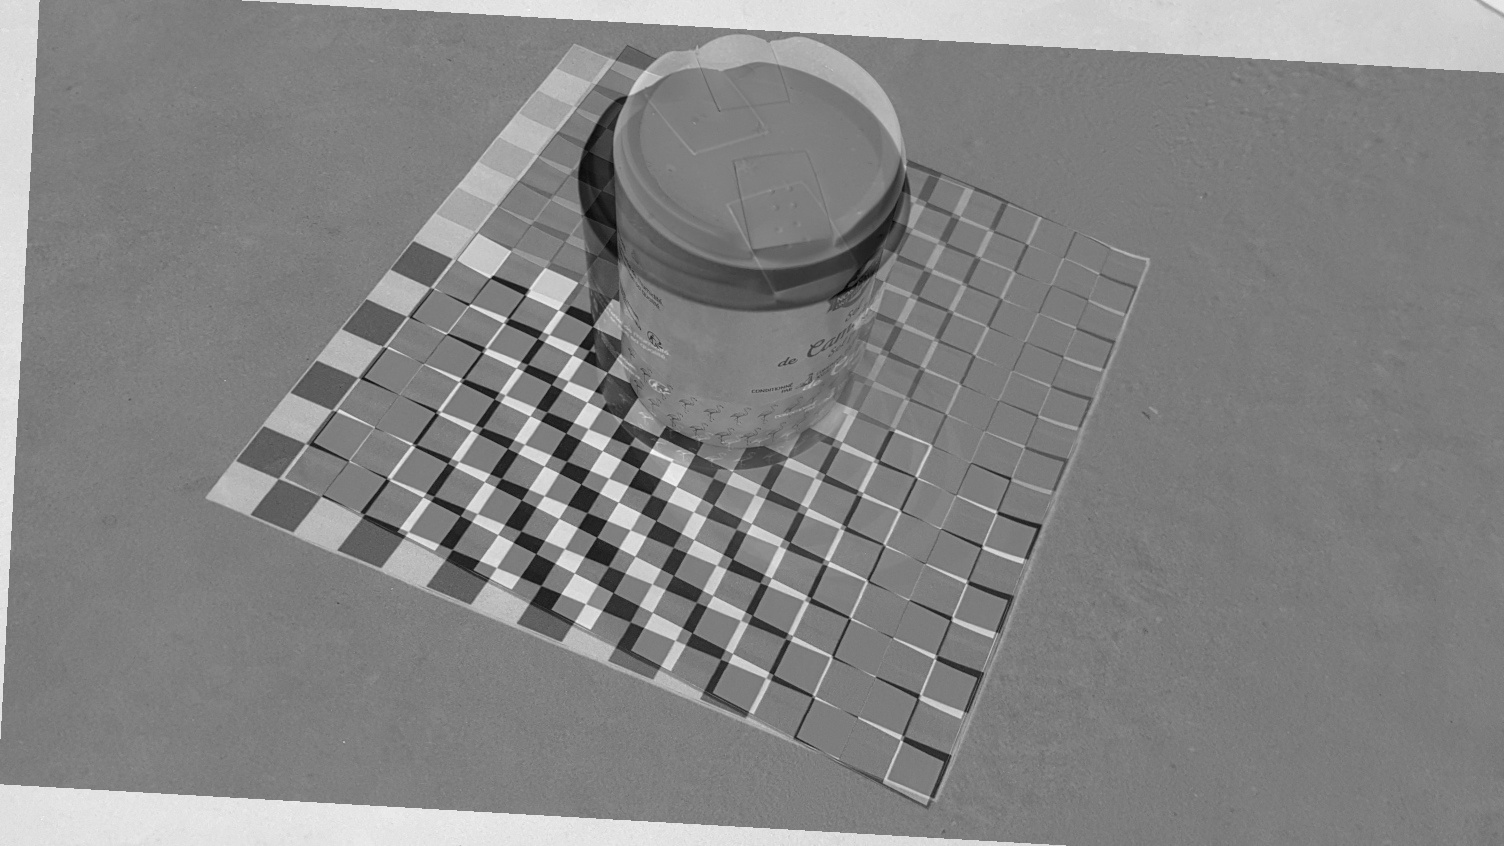
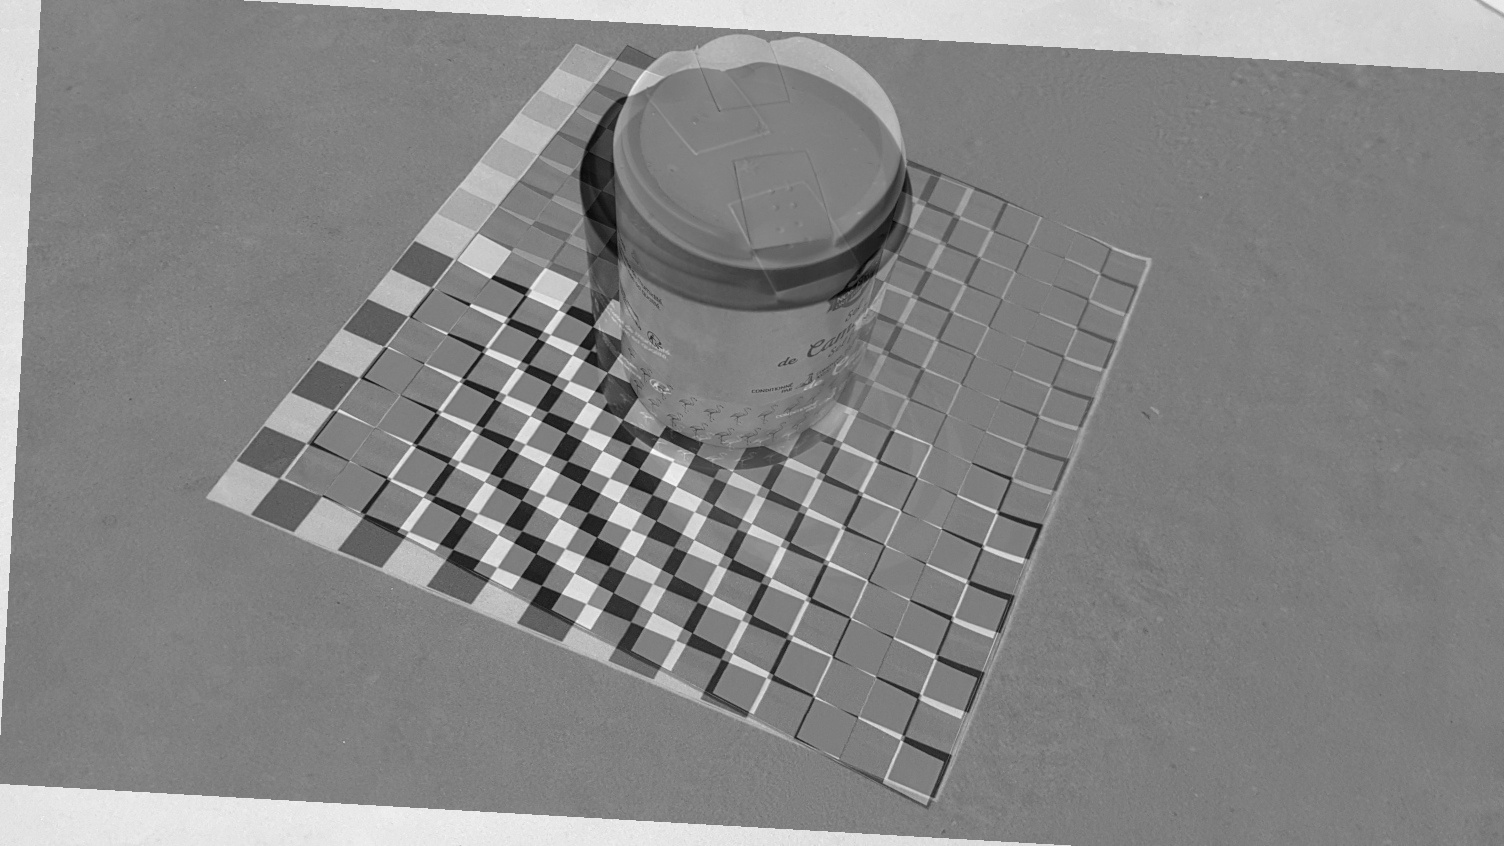
output

diff --git a/src/registration.cpp b/src/registration.cpp
@@ -126,15 +126,15 @@ TransformType::Pointer registrate_image(std::string filename1, std::string filen
     using ScalesEstimatorType = itk::RegistrationParameterScalesFromPhysicalShift<MetricType>;
     ScalesEstimatorType::Pointer scalesEstimator = ScalesEstimatorType::New();
     scalesEstimator->SetMetric(metric);
-    scalesEstimator->SetTransformForward(true);
-    scalesEstimator->SetSmallParameterVariation(1.0);
+    scalesEstimator->SetTransformForward(false);
+    scalesEstimator->SetSmallParameterVariation(1.0f);
 
-    optimizer->SetGradientConvergenceTolerance(0.01f);
-    optimizer->SetLineSearchAccuracy(10.0f);
-    optimizer->SetDefaultStepLength(1.5f);
-    optimizer->TraceOn();
+    optimizer->SetGradientConvergenceTolerance(0.0000001f);
+    optimizer->SetLineSearchAccuracy(1.0f);
+    optimizer->SetDefaultStepLength(2.0f);
+    //optimizer->TraceOn();
     optimizer->SetMaximumNumberOfFunctionEvaluations(maxNumberOfIterations);
-    //optimizer->SetScalesEstimator(scalesEstimator);
+    optimizer->SetScalesEstimator(scalesEstimator);
 
     CommandIterationUpdate::Pointer observer = CommandIterationUpdate::New();
     optimizer->AddObserver(itk::IterationEvent(), observer);
